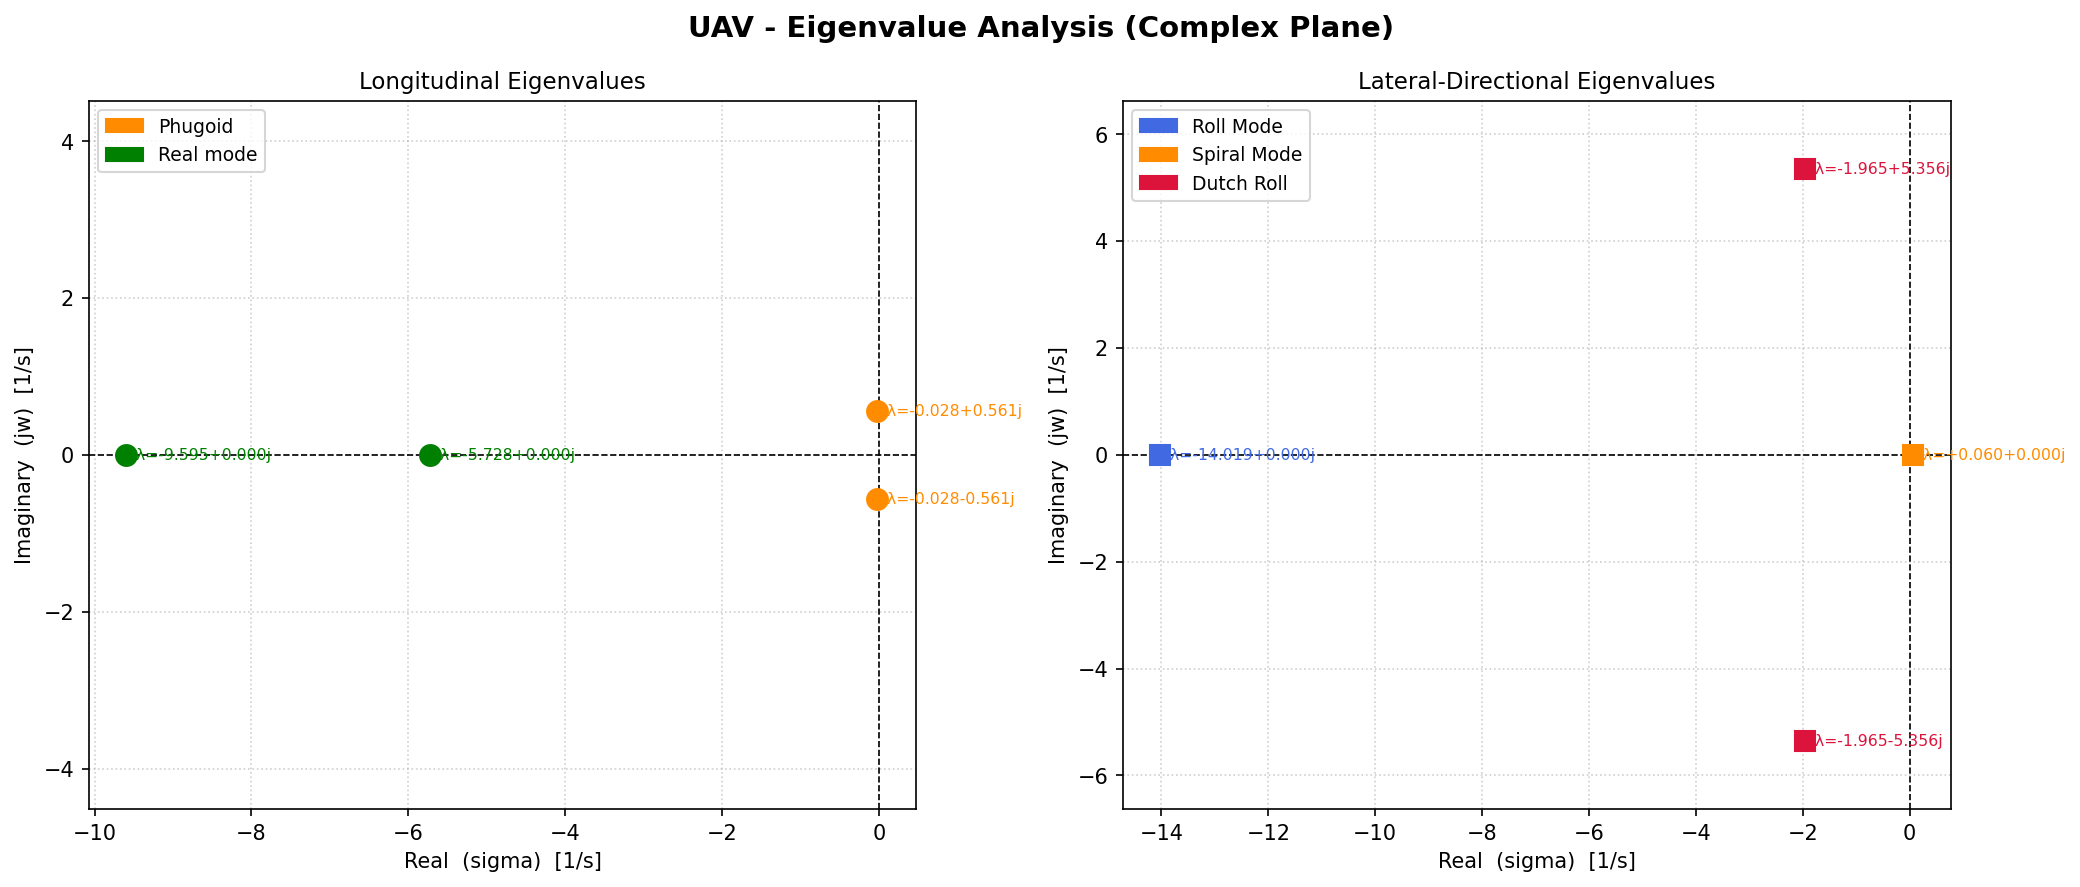
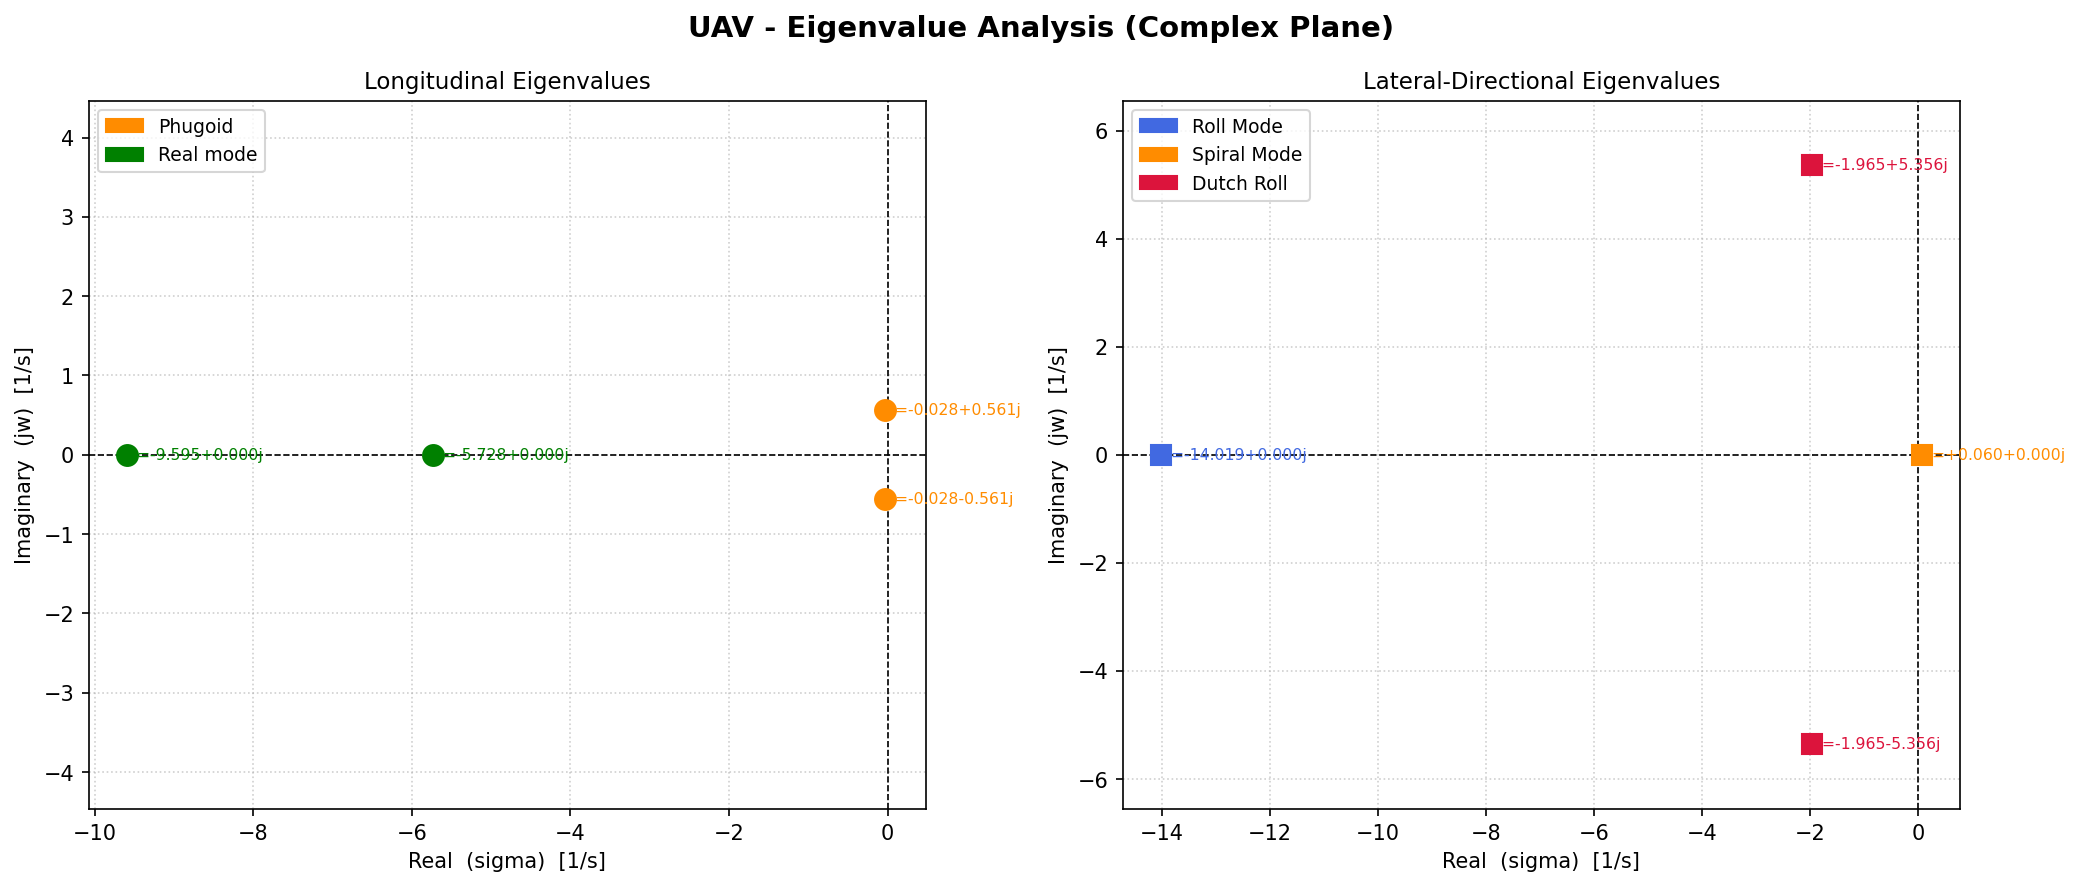
Added final plots

diff --git a/Final_week/mon/stability_analysis.py b/Final_week/mon/stability_analysis.py
@@ -1,0 +1,387 @@
+# -*- coding: utf-8 -*-
+"""Stability_Analysis.ipynb
+
+Automatically generated by Colab.
+
+Original file is located at
+    https://colab.research.google.com/drive/1OYgFrcg7nGUZXLL3-RnjUVBNvLN_9ruO
+"""
+
+#DYNAMIC MODES OF STABILITY
+#AUTHOR: MONISHA VIJAYAN(AE25M037)
+from __future__ import annotations
+
+import math
+from dataclasses import dataclass
+from pathlib import Path
+from typing import Dict
+
+import matplotlib
+matplotlib.use("Agg")
+import matplotlib.pyplot as plt
+from matplotlib.lines import Line2D
+import numpy as np
+
+D2R = np.pi / 180.0
+
+
+@dataclass
+class UAVInputs:
+    S:float = 0.53
+    b:float = 2.00
+    c_bar:float = 0.27
+    AR: float = 7.5372
+    m: float = 6.30
+    g: float = 9.81
+    Ixx: float = 0.75
+    Iyy: float = 0.38
+    Izz: float = 1.05
+    rho: float = 1.22
+    a_sound: float = 340.0
+    CD0:float = 0.02873
+    e: float = 1.00
+    CLalpha_w:  float = 3.133
+    CLalpha_t:  float = 4.329
+    CLalpha_v: float = 2.685
+    CLalpha_ac: float = 3.9210
+    S_t: float = 0.13
+    l_t: float = 0.70
+    AR_t: float = 4.5
+    S_v: float = 0.05
+    l_v: float = 0.70
+    AR_v: float = 1.5
+    eta_t: float = 0.99
+    eta_v: float = 0.95
+    Cm_alpha: float = -0.4176
+    Cm_q1: float = -14.9384
+    CL_q1: float = 5.6584
+    CD_alpha:float = 0.1040
+    CD_q1: float = 0.1500
+    CL_Ma: float = 0.0229
+    CD_Ma: float = 0.0
+    V_trim_ref: float = 24.658
+    CL_trim_ref:float = 0.3139
+    alpha_trim_ref_deg: float = 2.16
+    D_f:  float = 0.30
+    z_w:  float = 0.00
+    Gamma_deg: float = 0.0
+    Lambda_c4_deg: float = 0.0
+
+
+def print_section(title: str) -> None:
+    print("\n" + "=" * 72)
+    print(title)
+    print("=" * 72)
+
+
+def eigenvalue_plot(evals: np.ndarray, title: str, filename: Path) -> None:
+    fig, ax = plt.subplots(figsize=(8, 6))
+    ax.axhline(0, linewidth=0.8, color='k')
+    ax.axvline(0, linewidth=0.8, color='k')
+
+    for ev in evals:
+        is_complex = abs(ev.imag) > 1e-6
+        ax.scatter(ev.real, ev.imag, s=90,
+                   color='tab:orange' if is_complex else 'tab:blue',
+                   marker='o' if is_complex else 'D', zorder=5)
+
+    ax.legend(handles=[
+        Line2D([0],[0], marker='D', color='w', markerfacecolor='tab:blue',
+               markersize=9, label='Real root'),
+        Line2D([0],[0], marker='o', color='w', markerfacecolor='tab:orange',
+               markersize=9, label='Complex pair'),
+    ], fontsize=8)
+
+    for i, ev in enumerate(evals, 1):
+        ax.annotate(f"λ{i}", (ev.real, ev.imag),
+                    textcoords="offset points", xytext=(6, 5), fontsize=9)
+
+    ax.set_xlabel("Real (1/s)")
+    ax.set_ylabel("Imag (1/s)")
+    ax.set_title(title)
+    ax.grid(True, alpha=0.3)
+    fig.tight_layout()
+    fig.savefig(filename, dpi=200)
+    plt.close(fig)
+
+
+def plot_longitudinal_eigenvalues(long: Dict, filename: Path) -> None:
+    fig, ax = plt.subplots(figsize=(8, 6))
+    ax.axhline(0, linewidth=0.8, color='k')
+    ax.axvline(0, linewidth=0.8, color='k')
+
+    for ev in long["evals_sp2"]:
+        ax.scatter(ev.real, ev.imag, s=100, color='tab:red', marker='*', zorder=5)
+    for ev in long["ph_roots"]:
+        ax.scatter(ev.real, ev.imag, s=80, color='tab:orange', zorder=5)
+
+    ax.set_xlabel("Real (1/s)")
+    ax.set_ylabel("Imag (1/s)")
+    ax.set_title("Longitudinal eigenvalues")
+    ax.grid(True, alpha=0.3)
+    ax.legend(handles=[
+        Line2D([0],[0], marker='*', color='w', markerfacecolor='tab:red',
+               markersize=11, label='Short-period'),
+        Line2D([0],[0], marker='o', color='w', markerfacecolor='tab:orange',
+               markersize=9, label='Phugoid'),
+    ], fontsize=8)
+
+    fig.tight_layout()
+    fig.savefig(filename, dpi=200)
+    plt.close(fig)
+
+
+def compute_longitudinal(inp: UAVInputs) -> Dict:
+    print_section("LONGITUDINAL STABILITY")
+
+    V_trim  = inp.V_trim_ref
+    CL_trim = inp.CL_trim_ref
+    alpha_t = inp.alpha_trim_ref_deg * D2R
+    K       = 1.0 / (math.pi * inp.AR * inp.e)
+    CD_trim = inp.CD0 + K * CL_trim ** 2
+    q_trim  = 0.5 * inp.rho * V_trim ** 2
+    Ma_trim = V_trim / inp.a_sound
+    T_req   = q_trim * inp.S * CD_trim
+    P_req   = T_req * V_trim
+
+    qSc_Iyy = q_trim * inp.S * inp.c_bar / inp.Iyy
+    qS_W    = q_trim * inp.S / (inp.m * inp.g)
+    g_V     = inp.g / V_trim
+    c_2V    = inp.c_bar / (2.0 * V_trim)
+
+    print(f"alpha_trim = {inp.alpha_trim_ref_deg:.3f} deg")
+    print(f"CL_trim = {CL_trim:.4f}")
+    print(f"V_trim  = {V_trim:.3f} m/s")
+    print(f"Ma_trim = {Ma_trim:.5f}")
+    print(f"CD_trim = {CD_trim:.5f}")
+    print(f"Thrust = {T_req:.2f} N")
+    print(f"Power  = {P_req:.2f} W")
+    print(f"\nqSc/Iyy = {qSc_Iyy:.4f}")
+    print(f"qS/W  = {qS_W:.4f}")
+    print(f"g/V  = {g_V:.4f}")
+    print(f"c/(2V)  = {c_2V:.6f}")
+
+    Za_V  = qS_W * g_V * inp.CLalpha_ac
+    M_alp = qSc_Iyy * inp.Cm_alpha
+    M_q   = qSc_Iyy * inp.Cm_q1 * c_2V
+
+    A_SP_2 = np.array([[-Za_V, 1.0],
+                        [M_alp, M_q]])
+
+    evals_sp2  = np.linalg.eigvals(A_SP_2)
+    sp_ev      = evals_sp2[0]
+    wn_SP      = abs(sp_ev)
+    zeta_SP    = -sp_ev.real / wn_SP if abs(sp_ev.imag) > 1e-8 else sp_ev.real / wn_SP
+
+    print(f"\nSHORT-PERIOD (2x2 reduced system)")
+    print(f"  A_SP =\n{np.array2string(A_SP_2, precision=4)}")
+    print(f"  eigenvalues : {evals_sp2[0].real:+.4f} ± j{abs(evals_sp2[0].imag):.4f}")
+    print(f"  wn_SP = {wn_SP:.4f} rad/s")
+    print(f"  zeta_SP = {zeta_SP:.4f}")
+    print(f"  T_SP  = {2*math.pi/wn_SP:.4f} s")
+
+    wn_Ph_sq    = (g_V**2) * qS_W * (Ma_trim * inp.CL_Ma + 2.0 * CL_trim)
+    wn_Ph       = math.sqrt(max(wn_Ph_sq, 1e-12))
+    zeta_Ph     = (g_V * qS_W * 2.0 * CD_trim) / (2.0 * wn_Ph)
+
+    print(f"\nPHUGOID (2nd-order approximation)")
+    print(f"  wn_Ph   = {wn_Ph:.4f} rad/s")
+    print(f"  zeta_Ph = {zeta_Ph:.4f}")
+    print(f"  T_Ph    = {2*math.pi/wn_Ph:.2f} s")
+
+    k0  = 1.0 + g_V * qS_W * inp.CL_q1 * c_2V
+    fac = Ma_trim * inp.CL_Ma + 2.0 * CL_trim
+
+    a11 = -g_V * qS_W * (Ma_trim * inp.CD_Ma + 2.0 * CD_trim)
+    a12 = -g_V
+    a13 = -g_V * qS_W * inp.CD_alpha
+    a14 = -g_V * qS_W * inp.CD_q1 * c_2V
+    a21 =  g_V * qS_W * fac
+    a22 =  0.0
+    a23 =  g_V * qS_W * inp.CLalpha_ac
+    a24 =  g_V * qS_W * inp.CL_q1 * c_2V
+    a43 = (((g_V**2)*(qS_W**2)*fac*inp.CD_alpha) + qSc_Iyy*inp.Cm_alpha) / k0
+    a44 = (qSc_Iyy*c_2V*inp.Cm_q1 - g_V*qS_W*inp.CLalpha_ac
+           + (g_V**2)*(qS_W**2)*inp.CD_q1*c_2V*fac) / k0
+    a41 = (g_V**2)*(qS_W**2)*fac*(Ma_trim*inp.CD_Ma+2*CD_trim) / k0
+    a42 = (g_V**2)*qS_W*fac / k0
+
+    A_long = np.array([
+        [a11, a12, a13, a14],
+        [a21, a22, a23, a24],
+        [0.0, 0.0, 0.0, 1.0],
+        [a41, a42, a43, a44],
+    ])
+
+    print(f"\nFULL 4x4 A-MATRIX")
+    print(np.array2string(A_long, precision=4, suppress_small=True))
+
+    evals_long, evecs_long = np.linalg.eig(A_long)
+    state_names = ["dV/V", "dgamma", "dalpha", "dalpha_dot"]
+
+    print(f"\nFull 4x4 eigenvalues:")
+    for i, (ev, vec) in enumerate(zip(evals_long, evecs_long.T), 1):
+        dom = np.argmax(np.abs(vec))
+        print(f"  lambda{i}: {ev.real:+.5f}{ev.imag:+.5f}j  dominant: {state_names[dom]}")
+
+    sp_roots = [ev for ev, vec in zip(evals_long, evecs_long.T)
+                if np.argmax(np.abs(vec)) >= 2]
+    ph_roots = [ev for ev, vec in zip(evals_long, evecs_long.T)
+                if np.argmax(np.abs(vec)) < 2]
+
+    print(f"\nSP roots (4x4):")
+    for ev in sp_roots:
+        print(f"  {ev.real:+.4f}{ev.imag:+.4f}j")
+
+    print(f"\nPhugoid roots (4x4):")
+    for ev in ph_roots:
+        wn = abs(ev)
+        zeta = -ev.real / wn if wn > 1e-8 else 0.0
+        print(f"  {ev.real:+.5f}±j{abs(ev.imag):.5f}  wn={wn:.4f}  zeta={zeta:.4f}")
+
+    return {
+        "V_trim": V_trim, "q_trim": q_trim, "Ma_trim": Ma_trim,
+        "CL_trim": CL_trim, "CD_trim": CD_trim, "alpha_trim": alpha_t,
+        "qSc_Iyy": qSc_Iyy, "qS_W": qS_W, "g_V": g_V, "c_2V": c_2V, "K": K,
+        "wn_SP": wn_SP, "zeta_SP": zeta_SP, "evals_sp2": evals_sp2,
+        "wn_Ph": wn_Ph, "zeta_Ph": zeta_Ph,
+        "A_long": A_long, "evals_long": evals_long,
+        "sp_roots": sp_roots, "ph_roots": ph_roots,
+        "CLalpha_ac": inp.CLalpha_ac,
+    }
+
+
+def compute_lateral(inp: UAVInputs, long: Dict) -> Dict:
+    print_section("LATERAL-DIRECTIONAL STABILITY")
+
+    V_trim  = long["V_trim"]
+    q_trim  = long["q_trim"]
+    g_V     = long["g_V"]
+    CL_trim = long["CL_trim"]
+    CD_trim = long["CD_trim"]
+    CLalpha = long["CLalpha_ac"]
+    alpha_t = long["alpha_trim"]
+
+    Lambda_c4_rad = inp.Lambda_c4_deg * D2R
+    Gamma_rad     = inp.Gamma_deg * D2R
+
+    sidewash = (
+        0.724
+        + 3.06 * (inp.S_v / inp.S) / (1.0 + math.cos(Lambda_c4_rad))
+        + 0.4 * inp.z_w / inp.D_f
+        + 0.009 * inp.AR
+    )
+
+    CY_beta_VT = -(inp.eta_v * inp.CLalpha_v * (inp.S_v / inp.S) * sidewash)
+    CY_beta    = -0.0001 * Gamma_rad + CY_beta_VT
+    Cn_beta_VT = -CY_beta_VT * (inp.l_v / inp.b)
+    Cn_beta    = -0.075 * Gamma_rad * CL_trim + Cn_beta_VT
+
+    z_VT  = (4.0/9.0) * math.sqrt(inp.AR_v * inp.S_v)
+    z_eff = z_VT * math.cos(alpha_t) - inp.l_v * math.sin(alpha_t)
+
+    Cl_beta_VT = (z_eff / inp.b) * CY_beta_VT
+    Cl_beta_w  = -(Gamma_rad * inp.CLalpha_w * inp.c_bar * inp.b) / (6.0 * inp.S)
+    Cl_beta    = Cl_beta_w + Cl_beta_VT
+
+    lVT_eff = inp.l_v * math.cos(alpha_t) + z_VT * math.sin(alpha_t)
+
+    Cl_p2 = -1.0/6.0*(CLalpha + CD_trim) + 2.0*(z_eff/inp.b)*((z_eff-z_VT)/inp.b)*CY_beta_VT
+    Cn_r1 = (2.0/inp.b**2) * lVT_eff**2 * CY_beta_VT
+    Cl_r1 = CL_trim/3.0 - (2.0/inp.b**2)*lVT_eff*z_eff*CY_beta_VT
+    Cn_r2 = -CD_trim/3.0
+    Cl_r2 =  CL_trim/3.0
+
+    qSb_Ixx = q_trim * inp.S * inp.b / inp.Ixx
+    qSb_Izz = q_trim * inp.S * inp.b / inp.Izz
+    qS_m    = q_trim * inp.S / inp.m
+    b_2V    = inp.b / (2.0 * V_trim)
+
+    N_beta = qSb_Izz * Cn_beta
+    Y_beta = qS_m    * CY_beta
+    L_beta = qSb_Ixx * Cl_beta
+    L_p2   = qSb_Ixx * Cl_p2 * b_2V
+    N_r1   = qSb_Izz * Cn_r1 * b_2V
+    L_r1   = qSb_Ixx * Cl_r1 * b_2V
+    N_r2   = qSb_Izz * Cn_r2 * b_2V
+    L_r2   = qSb_Ixx * Cl_r2 * b_2V
+
+    lambda_roll   = L_p2
+    wn_DR_sq      = N_beta + g_V*(Y_beta*N_r2 + L_beta/lambda_roll)
+    wn_DR         = math.sqrt(abs(wn_DR_sq))
+    zeta_DR       = -(N_r1 + g_V*(Y_beta + L_r1/lambda_roll)) / (2.0*wn_DR)
+    lambda_spiral = g_V*(L_beta*N_r2 - N_beta*L_r2)/(lambda_roll*wn_DR_sq)
+
+    A_lat = np.array([
+        [0.0,       1.0,  0.0,                        0.0],
+        [g_V*L_r2,  L_p2, L_beta+g_V*Y_beta*L_r2,   -L_r1],
+        [0.0,       0.0,  0.0,                        1.0],
+        [-g_V*N_r2, g_V,  -(N_beta+g_V*Y_beta*N_r2), N_r1+g_V*Y_beta],
+    ])
+
+    evals_lat = np.linalg.eigvals(A_lat)
+
+    print(f"sidewash  = {sidewash:.4f}")
+    print(f"CY_beta   = {CY_beta:.5f}")
+    print(f"Cn_beta   = {Cn_beta:.5f}")
+    print(f"Cl_beta   = {Cl_beta:.5f}")
+    print(f"\nN_beta = {N_beta:.4f}  Y_beta = {Y_beta:.4f}")
+    print(f"L_beta = {L_beta:.4f}  L_p2   = {L_p2:.4f}")
+    print(f"\nLateral A-matrix:")
+    print(np.array2string(A_lat, precision=4, suppress_small=True))
+    print(f"\nLateral eigenvalues:")
+    for ev in evals_lat:
+        print(f"  {ev.real:+.6f} {ev.imag:+.6f}j")
+
+    print(f"\nLATERAL MODE SUMMARY")
+    print(f"  Roll subsidence  lambda = {lambda_roll:+.4f} s-1")
+    print(f"  Dutch roll       wn     = {wn_DR:.4f} rad/s")
+    print(f"  Dutch roll       zeta   = {zeta_DR:.4f}")
+    print(f"  Spiral           lambda = {lambda_spiral:+.5f} s-1  ({'UNSTABLE' if lambda_spiral > 0 else 'stable'})")
+
+    return {
+        "lambda_roll": lambda_roll, "wn_DR": wn_DR, "zeta_DR": zeta_DR,
+        "lambda_spiral": lambda_spiral,
+        "CY_beta": CY_beta, "Cn_beta": Cn_beta, "Cl_beta": Cl_beta,
+        "A_lat": A_lat, "evals_lat": evals_lat,
+    }
+
+
+def main() -> None:
+    inp  = UAVInputs()
+    long = compute_longitudinal(inp)
+    lat  = compute_lateral(inp, long)
+
+    try:
+        out_dir = Path(__file__).resolve().parent
+    except NameError:
+        out_dir = Path.cwd()
+
+    plot_longitudinal_eigenvalues(long, out_dir / "longitudinal_eigenvalues.png")
+    eigenvalue_plot(lat["evals_lat"], "Lateral-directional eigenvalues",
+                    out_dir / "lateral_eigenvalues.png")
+
+    print_section("SUMMARY")
+    sp = long["evals_sp2"][0]
+    print(f"Trim: V={long['V_trim']:.3f} m/s  CL={long['CL_trim']:.4f}  CD={long['CD_trim']:.5f}")
+    print(f"\nSHORT-PERIOD")
+    print(f"  lambda = {sp.real:+.4f} ± j{abs(sp.imag):.4f} s-1")
+    print(f"  wn     = {long['wn_SP']:.4f} rad/s")
+    print(f"  zeta   = {long['zeta_SP']:.4f}")
+    print(f"  T      = {2*math.pi/long['wn_SP']:.4f} s")
+    print(f"\nPHUGOID")
+    ph = long["ph_roots"]
+    if ph:
+        p = ph[0]; wn = abs(p); zeta = -p.real/wn
+        print(f"  lambda = {p.real:+.5f} ± j{abs(p.imag):.5f} s-1")
+        print(f"  wn     = {wn:.4f} rad/s")
+        print(f"  zeta   = {zeta:.4f}")
+    print(f"\nLATERAL-DIRECTIONAL")
+    print(f"  Roll subsidence  lambda = {lat['lambda_roll']:+.4f} s-1")
+    print(f"  Dutch roll       wn     = {lat['wn_DR']:.4f} rad/s")
+    print(f"  Dutch roll       zeta   = {lat['zeta_DR']:.4f}")
+    print(f"  Spiral           lambda = {lat['lambda_spiral']:+.5f} s-1  ({'UNSTABLE' if lat['lambda_spiral'] > 0 else 'stable'})")
+
+
+if __name__ == "__main__":
+    main()
